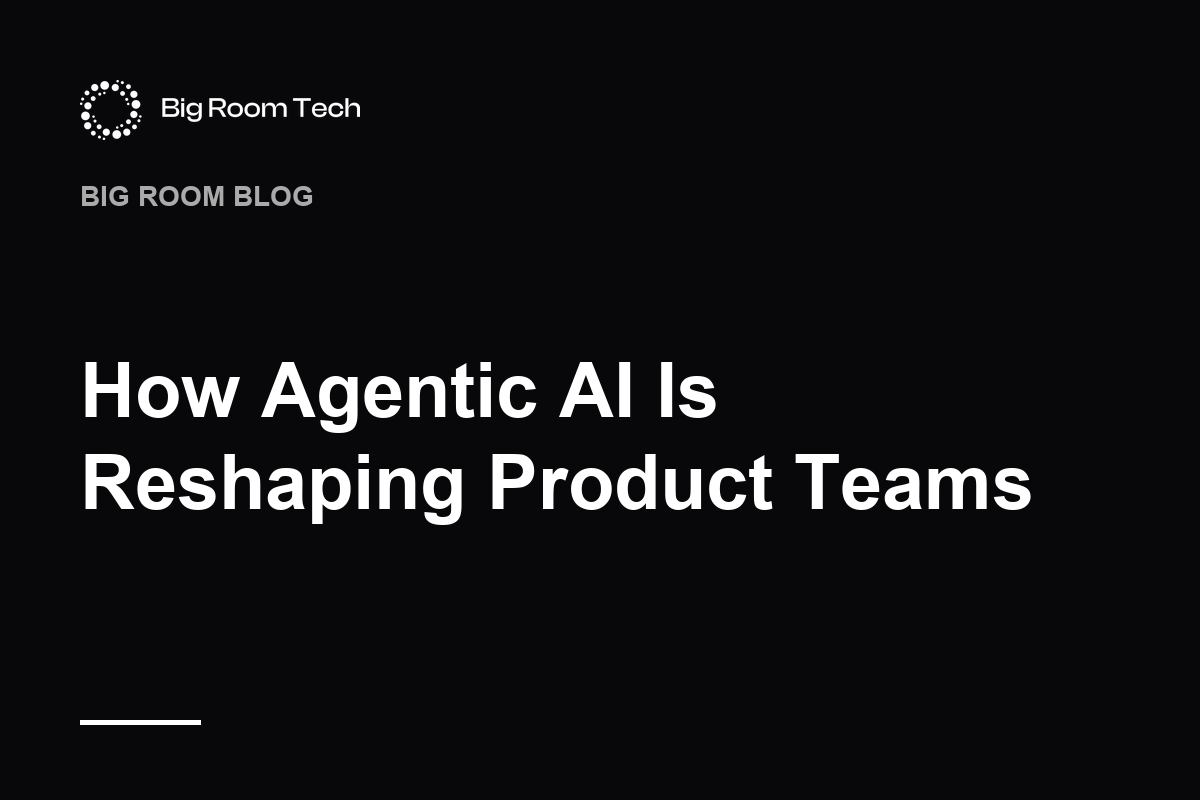
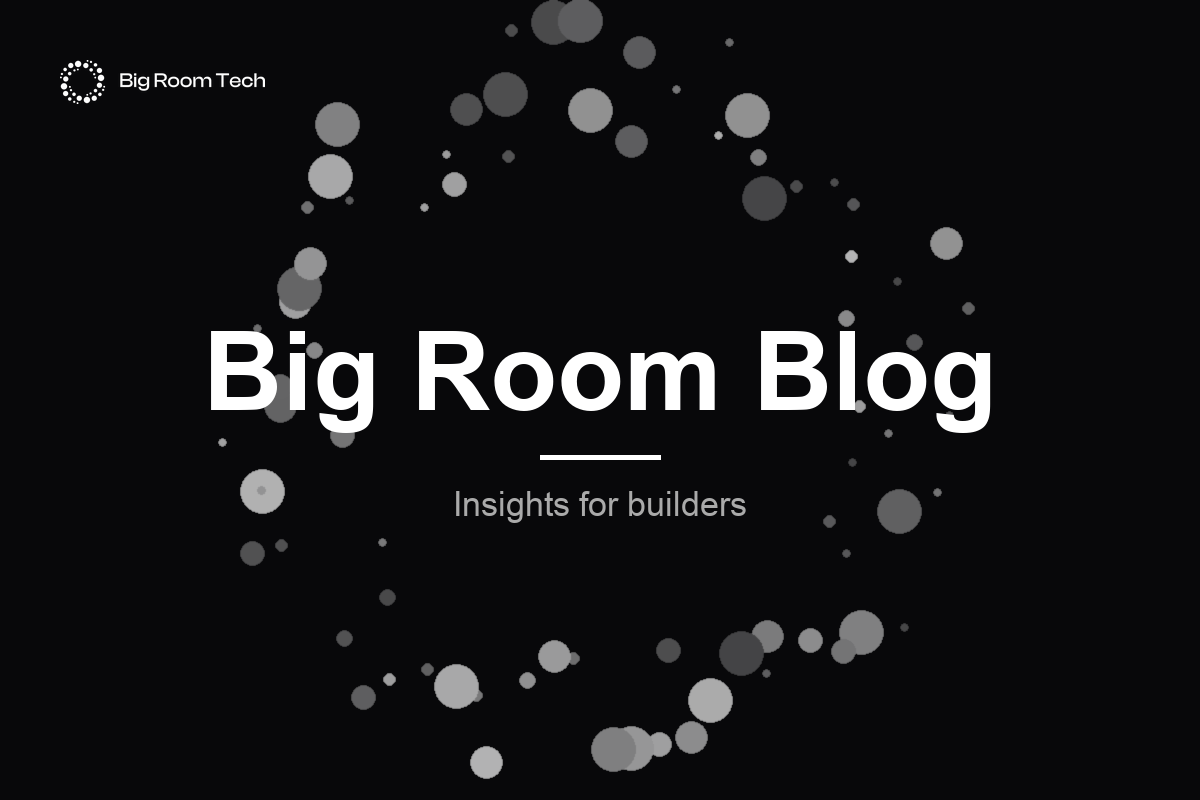
Redesign blog cover template: branded wordmark over dotted halo
Avoids title duplication on blog cards by making the cover decorative
(Big Room Blog wordmark + short subtitle + dotted ring inspired by logo).
Regenerated all 5 recent covers.

diff --git a/scripts/generate-cover.py b/scripts/generate-cover.py
@@ -1,19 +1,27 @@
 #!/usr/bin/env python3
 """Generate a branded 'Big Room Blog' cover image for a new post.
 
+The cover is decorative — large "Big Room Blog" wordmark with a short subtitle.
+The post title is rendered separately on the card itself, so the cover should
+not repeat it. Keep the subtitle short (category or 2-4 word teaser).
+
 Usage:
-  python3 scripts/generate-cover.py "Post Title Here" output-slug
+  python3 scripts/generate-cover.py "Subtitle Text" output-slug
 
 Saves to images/blog/{slug}.png at 1200x800.
 """
 import sys
+import math
+import random
 from pathlib import Path
-from PIL import Image, ImageDraw, ImageFont
+from PIL import Image, ImageDraw, ImageFilter, ImageFont
 
 W, H = 1200, 800
 BG = (8, 8, 10)
 ACCENT = (255, 255, 255)
 MUTED = (170, 170, 170)
+HALO = (60, 60, 70)
+
 
 def find_font(size, bold=False):
     candidates = [
@@ -29,63 +37,73 @@ def find_font(size, bold=False):
                 pass
     return ImageFont.load_default()
 
-def wrap(text, font, max_w, draw):
-    words = text.split()
-    lines, cur = [], ""
-    for w in words:
-        test = (cur + " " + w).strip()
-        if draw.textlength(test, font=font) <= max_w:
-            cur = test
-        else:
-            if cur:
-                lines.append(cur)
-            cur = w
-    if cur:
-        lines.append(cur)
-    return lines
+
+def draw_dot_pattern(img, slug):
+    """Decorative dot ring in the background, deterministic per slug."""
+    rng = random.Random(hash(slug) & 0xFFFFFFFF)
+    overlay = Image.new("RGBA", (W, H), (0, 0, 0, 0))
+    od = ImageDraw.Draw(overlay)
+    cx, cy = W // 2, H // 2
+    for i in range(80):
+        angle = (i / 80) * math.tau + rng.uniform(-0.05, 0.05)
+        radius = rng.choice([260, 290, 320, 350, 380])
+        r = rng.choice([4, 6, 8, 12, 16, 22])
+        x = cx + math.cos(angle) * radius
+        y = cy + math.sin(angle) * radius
+        alpha = rng.randint(60, 180)
+        od.ellipse([x - r, y - r, x + r, y + r], fill=(255, 255, 255, alpha))
+    overlay = overlay.filter(ImageFilter.GaussianBlur(0.6))
+    img.alpha_composite(overlay)
+
 
 def main():
     if len(sys.argv) < 3:
-        print("Usage: generate-cover.py <title> <slug>")
+        print("Usage: generate-cover.py <subtitle> <slug>")
         sys.exit(1)
-    title = sys.argv[1]
+    subtitle = sys.argv[1]
     slug = sys.argv[2]
 
-    img = Image.new("RGB", (W, H), BG)
+    img = Image.new("RGBA", (W, H), BG + (255,))
+    draw_dot_pattern(img, slug)
     draw = ImageDraw.Draw(img)
 
-    # Try paste the white logo top-left
+    # Wordmark "Big Room Blog" — large, centered
+    wm_font = find_font(110, bold=True)
+    wm = "Big Room Blog"
+    wm_w = draw.textlength(wm, font=wm_font)
+    wm_y = H // 2 - 90
+    draw.text(((W - wm_w) // 2, wm_y), wm, font=wm_font, fill=ACCENT)
+
+    # Thin underline accent
+    line_y = wm_y + 145
+    draw.rectangle([(W // 2) - 60, line_y, (W // 2) + 60, line_y + 4], fill=ACCENT)
+
+    # Subtitle
+    sub_font = find_font(34, bold=False)
+    sub_w = draw.textlength(subtitle, font=sub_font)
+    if sub_w > W - 160:
+        # truncate gracefully
+        while sub_w > W - 160 and len(subtitle) > 8:
+            subtitle = subtitle[:-2]
+            sub_w = draw.textlength(subtitle + "…", font=sub_font)
+        subtitle = subtitle + "…"
+        sub_w = draw.textlength(subtitle, font=sub_font)
+    draw.text(((W - sub_w) // 2, line_y + 30), subtitle, font=sub_font, fill=MUTED)
+
+    # Small logo in top-left corner
     logo_path = Path(__file__).resolve().parent.parent / "images" / "full-logo-white.png"
     if logo_path.exists():
         logo = Image.open(logo_path).convert("RGBA")
-        # scale to 60px tall
-        ratio = 60 / logo.height
-        logo = logo.resize((int(logo.width * ratio), 60), Image.LANCZOS)
-        img.paste(logo, (80, 80), logo)
-
-    # "BIG ROOM BLOG" label
-    label_font = find_font(28, bold=True)
-    draw.text((80, 180), "BIG ROOM BLOG", font=label_font, fill=MUTED)
-
-    # Title — large, wrapped
-    title_font = find_font(76, bold=True)
-    lines = wrap(title, title_font, W - 160, draw)
-    # vertical center the block
-    line_h = 92
-    block_h = line_h * len(lines)
-    y = (H - block_h) // 2 + 40
-    for line in lines:
-        draw.text((80, y), line, font=title_font, fill=ACCENT)
-        y += line_h
-
-    # Footer accent line
-    draw.rectangle([80, H - 80, 200, H - 76], fill=ACCENT)
+        ratio = 44 / logo.height
+        logo = logo.resize((int(logo.width * ratio), 44), Image.LANCZOS)
+        img.alpha_composite(logo, (60, 60))
 
     out_dir = Path(__file__).resolve().parent.parent / "images" / "blog"
     out_dir.mkdir(parents=True, exist_ok=True)
     out_path = out_dir / f"{slug}.png"
-    img.save(out_path, "PNG", optimize=True)
+    img.convert("RGB").save(out_path, "PNG", optimize=True)
     print(out_path)
+
 
 if __name__ == "__main__":
     main()
